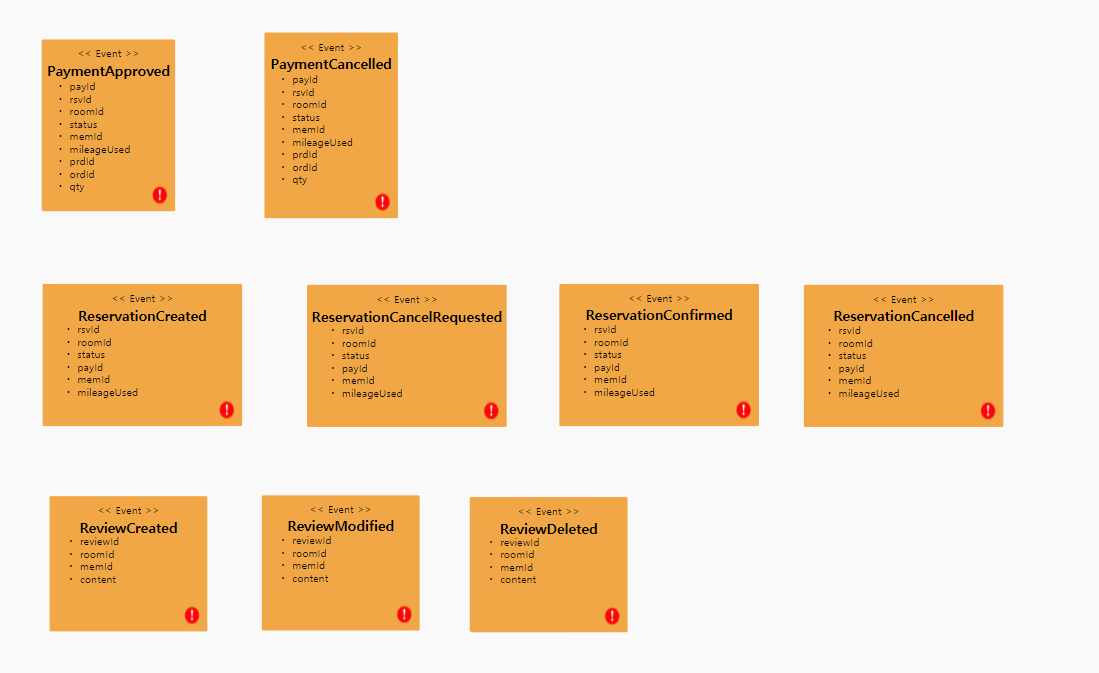
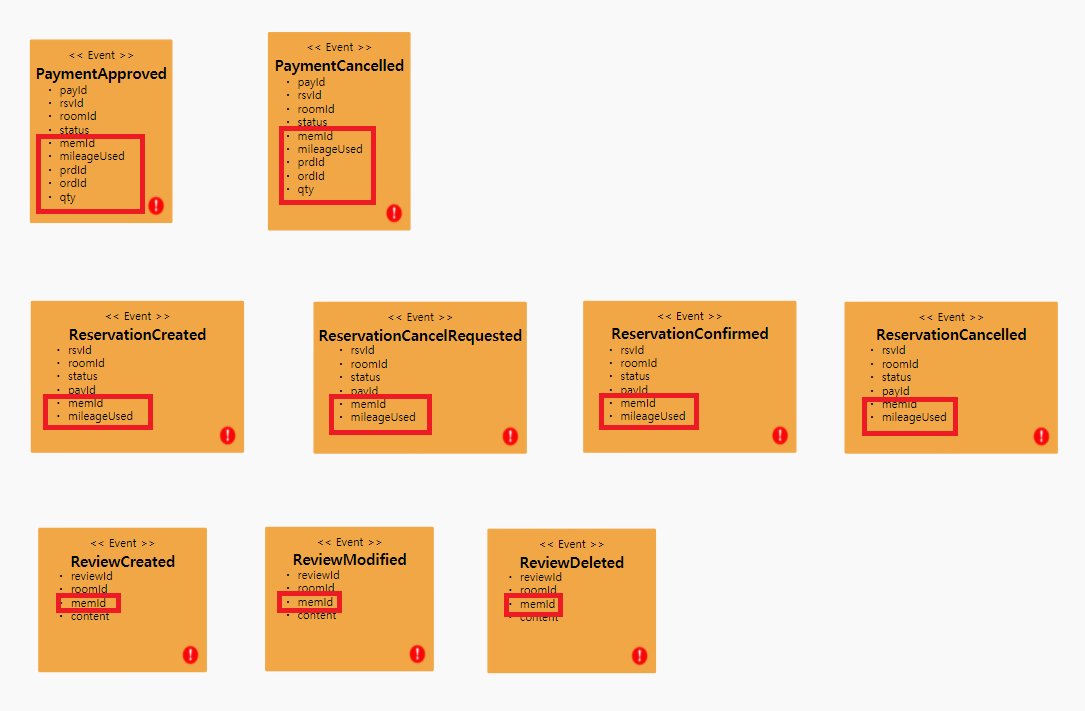
m

diff --git a/README.md b/README.md
@@ -146,76 +146,71 @@ Mileage 결제 및 제휴상품 구매 기능 추가하기
 
 
 ### mileage 및 제휴상품 이벤트 신규 도출
-![신규 개인과제 이벤트 도출](https://user-images.githubusercontent.com/38099203/121197121-03e1ec80-c8ac-11eb-891c-934bd05c4574.PNG)
+![신규 개인과제 이벤트 도출](https://user-images.githubusercontent.com/38099203/121212087-00ecf900-c8b8-11eb-8570-e01fcc503338.PNG)
 
 ### mileage 및 제휴상품 적용을 위한 기존 이벤트 수정
-![기존 팀과제 이벤트 수정](https://user-images.githubusercontent.com/38099203/121197292-2a078c80-c8ac-11eb-9e2b-f4d228281594.PNG)
+![기존 팀과제 이벤트 수정](https://user-images.githubusercontent.com/38099203/121205022-4c9ca400-c8b2-11eb-95f6-574bfb4e89c5.PNG)
 
+    - 결제 시스템 : 
+      - mlieage 사용할수 있도록 memId와 mileage 사용 정보 저장
+	  - 제휴상품 및 주문정보 저장
+    - 숙소 예약 시스템 : 
+      - mlieage 사용할수 있도록 memId와 mileage 사용 정보 저장
+    - 리뷰 시스템 : 
+      - 리뷰작성 시 mileage 부여를 위한 정보 저장
 
 ### mileage 및 제휴상품 부적격 이벤트 탈락
-![image](https://user-images.githubusercontent.com/15603058/119298594-4f837c00-bc98-11eb-9f67-ec2e882e1f33.png)
+![신규 개인과제 부적격 이벤트 퇴출](https://user-images.githubusercontent.com/38099203/121212289-2b3eb680-c8b8-11eb-8fd1-d1dba4b3b3a1.PNG)
 
-    - 과정중 도출된 잘못된 도메인 이벤트들을 걸러내는 작업을 수행함
-        - 등록시>RoomSearched, 예약시>RoomSelected :  UI 의 이벤트이지, 업무적인 의미의 이벤트가 아니라서 제외
 
-### 액터, 커맨드 부착하여 읽기 좋게
-![image](https://user-images.githubusercontent.com/15603058/119298993-113a8c80-bc99-11eb-9bae-4b911317d810.png)
+### 신규 개인과제 액터, 커맨드 부착하여 읽기 좋게
+![신규 개인과제 액터, 커맨드 부착하여 읽기 좋게](https://user-images.githubusercontent.com/38099203/121214558-2f6bd380-c8ba-11eb-8d26-1218fe73638f.PNG)
 
-### 어그리게잇으로 묶기
-![image](https://user-images.githubusercontent.com/15603058/119299589-2663eb00-bc9a-11eb-83b9-de7f3efe7548.png)
 
-    - Room, Reservation, Payment, Review 은 그와 연결된 command 와 event 들에 의하여 트랜잭션이 유지되어야 하는 단위로 그들 끼리 묶어줌
+### 신규 개인과제 이벤트 어그리게잇으로 묶기
+![신규 개인과제 이벤트 어그리게잇으로 묶기](https://user-images.githubusercontent.com/38099203/121215146-b8830a80-c8ba-11eb-9410-b6354d95a82b.PNG)
 
-### 바운디드 컨텍스트로 묶기
+    - Member, Affiliateproduct, Order 등은 그와 연결된 command 와 event 들에 의하여 트랜잭션이 유지되어야 하는 단위로 그들 끼리 묶어줌
 
-![image](https://user-images.githubusercontent.com/15603058/119300858-6c21b300-bc9c-11eb-9b3f-c85aff51658f.png)
+### 신규 개인과제 이벤트 바운디드 컨텍스트로 묶기
 
-    - 도메인 서열 분리 
-        - Core Domain:  reservation, room : 없어서는 안될 핵심 서비스이며, 연간 Up-time SLA 수준을 99.999% 목표, 배포주기는 reservation 의 경우 1주일 1회 미만, room 의 경우 1개월 1회 미만
-        - Supporting Domain:   message, viewpage : 경쟁력을 내기위한 서비스이며, SLA 수준은 연간 60% 이상 uptime 목표, 배포주기는 각 팀의 자율이나 표준 스프린트 주기가 1주일 이므로 1주일 1회 이상을 기준으로 함.
-        - General Domain:   payment : 결제서비스로 3rd Party 외부 서비스를 사용하는 것이 경쟁력이 높음 
+![신규 개인과제 이벤트 바운디드 컨텍스트로 묶기](https://user-images.githubusercontent.com/38099203/121215886-5c6cb600-c8bb-11eb-8d6f-3017309df19e.PNG)
 
-### 폴리시 부착 (괄호는 수행주체, 폴리시 부착을 둘째단계에서 해놔도 상관 없음. 전체 연계가 초기에 드러남)
+ 
+### 기존 팀과제 이벤트와 신규 개인과제 이벤트 폴리시 부착
 
-![image](https://user-images.githubusercontent.com/15603058/119303664-1b608900-bca1-11eb-8667-7545f32c9fb9.png)
+![기존 팀과제 이벤트와 신규 개인과제 이벤트 폴리시 부착](https://user-images.githubusercontent.com/38099203/121220414-8cb65380-c8bf-11eb-9408-0fe9b7bfa754.PNG)
 
-### 폴리시의 이동과 컨텍스트 매핑 (점선은 Pub/Sub, 실선은 Req/Resp)
 
-![image](https://user-images.githubusercontent.com/15603058/119304604-73e45600-bca2-11eb-8f1d-607006919fab.png)
+### 기존 팀과제 이벤트와 신규 개인과제 이벤트 간 폴리시의 이동과 컨텍스트 매핑 (점선은 Pub/Sub, 실선은 Req/Resp)
 
-### 완성된 1차 모형
+![기존 팀과제 이벤트와 신규 개인과제 이벤트 폴리시의 이동과 컨텍스트 매핑](https://user-images.githubusercontent.com/38099203/121222228-4f52c580-c8c1-11eb-85f2-b45053da983d.PNG)
 
-![image](https://user-images.githubusercontent.com/15603058/119305002-0edd3000-bca3-11eb-9cc0-1ba8b17f2432.png)
 
-    - View Model 추가
-
-### 1차 완성본에 대한 기능적/비기능적 요구사항을 커버하는지 검증
+### 기능적/비기능적 요구사항을 커버하는지 검증
 
 ![image](https://user-images.githubusercontent.com/15603058/119306321-f110ca80-bca4-11eb-804c-a965220bad61.png)
 
-    - 호스트가 임대할 숙소를 등록/수정/삭제한다.(ok)
-    - 고객이 숙소를 선택하여 예약한다.(ok)
-    - 예약과 동시에 결제가 진행된다.(ok)
-    - 예약이 되면 예약 내역(Message)이 전달된다.(?)
-    - 고객이 예약을 취소할 수 있다.(ok)
-    - 예약 사항이 취소될 경우 취소 내역(Message)이 전달된다.(?)
-    - 숙소에 후기(review)를 남길 수 있다.(ok)
-    - 전체적인 숙소에 대한 정보 및 예약 상태 등을 한 화면에서 확인 할 수 있다.(View-green Sticker 추가로 ok)
-    
+    - 회원 가입 시 최조 mileage를 부여하고 Review를 남길 경우 추가로 mileage를 부여한다.(ok)
+    - 임대 숙소 예약 결제 시 mileage를 사용할수 있다.(ok)
+    - 예약 지역 근처의 제휴상품 (activity, 맛집 이용권 등)을 등록하고 판매할수 있다.(ok)
+    - 제휴상품 결제 시 mileage를 사용할수 있다.(ok)
+    - 예약 및 제휴상품 구입 내역에 대해 Message 전달을 한다.(ok)
+    - mileage 및 제휴상품 구매 등을 한 화면에서 확인 할 수 있다.(viewpage)(ok)
+
 ### 모델 수정
 
-![image](https://user-images.githubusercontent.com/15603058/119307481-b740c380-bca6-11eb-9ee6-fda446e299bc.png)
-    
-    - 수정된 모델은 모든 요구사항을 커버함.
+![모델 수정](https://user-images.githubusercontent.com/38099203/121224805-e15bcd80-c8c3-11eb-91ae-34d087a97e59.PNG)
 
 ### 비기능 요구사항에 대한 검증
 
-![image](https://user-images.githubusercontent.com/15603058/119311800-79df3480-bcac-11eb-9c1b-0382d981f92f.png)
+![모델 수정_비기능 요구사항에 대한 검증](https://user-images.githubusercontent.com/38099203/121225928-f84eef80-c8c4-11eb-871f-04b3fd026e35.PNG)
 
-- 마이크로 서비스를 넘나드는 시나리오에 대한 트랜잭션 처리
-- 고객 예약시 결제처리:  결제가 완료되지 않은 예약은 절대 받지 않는다고 결정하여, ACID 트랜잭션 적용. 예약 완료시 사전에 방 상태를 확인하는 것과 결제처리에 대해서는 Request-Response 방식 처리
-- 결제 완료시 Host 연결 및 예약처리:  reservation 에서 room 마이크로서비스로 예약요청이 전달되는 과정에 있어서 room 마이크로 서비스가 별도의 배포주기를 가지기 때문에 Eventual Consistency 방식으로 트랜잭션 처리함.
-- 나머지 모든 inter-microservice 트랜잭션: 예약상태, 후기처리 등 모든 이벤트에 대해 데이터 일관성의 시점이 크리티컬하지 않은 모든 경우가 대부분이라 판단, Eventual Consistency 를 기본으로 채택함.
+    - 1) 결제시 mileage 차감이 같이 진행되어야 한다.  (Sync 호출)
+    - 2) 결제가 되지 않은 제휴상품 구매 건은 성립되지 않아야 한다.  (Sync 호출)
+    - 3) 제휴상품 등록 및 리뷰장성 시 mileage 추가 부여, 메시지 전송 기능이 수행되지 않더라도 예약 및 제휴상품 구매 등은 365일 24시간 받을 수 있어야 한다  Async (event-driven), Eventual Consistency
+    - 4) 회원 가입, mileage, 제휴상품 구매 등을 한번에 확인할 수 있어야 한다  (CQRS)
+    - 5) 상태가 바뀔 때마다 메시지로 알림을 줄 수 있어야 한다  (Event driven)
 
 
 ## 헥사고날 아키텍처 다이어그램 도출
